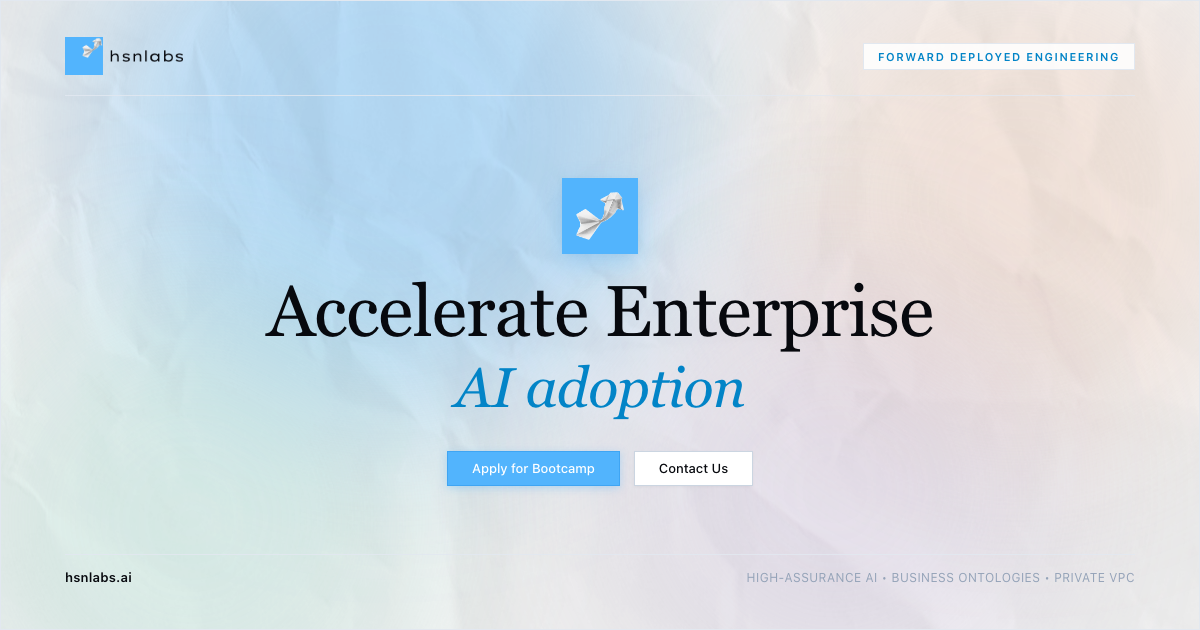
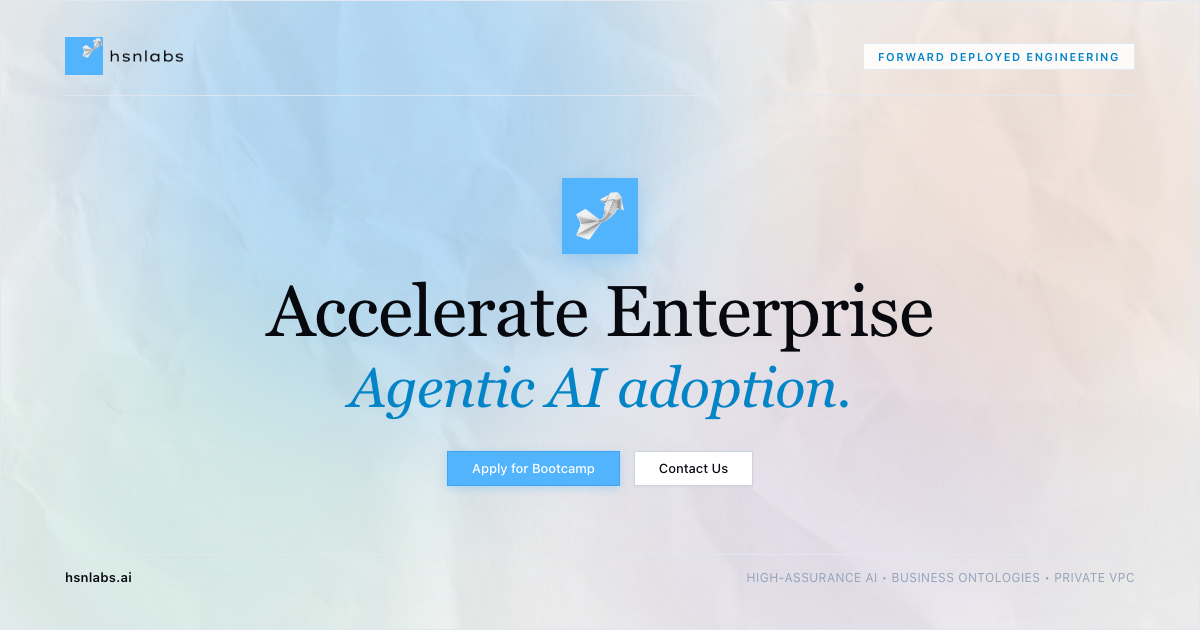
style: set hero subtitle to Agentic AI adoption.

Changed region(s): [[0.2775, 0.573, 0.7092, 0.6635]]

diff --git a/pt/index.html b/pt/index.html
@@ -1511,7 +1511,7 @@
       <!-- MAIN HEADLINE -->
       <h1 class="display-hero">
         <span class="hero-title-lead">Acelere a Adoção</span>
-        <span class="hero-title-sub" style="color: var(--cyan-text);">de IA enterprise</span>
+        <span class="hero-title-sub" style="color: var(--cyan-text);">de IA agêntica enterprise.</span>
       </h1>
 
       <div class="hero-ctas">

diff --git a/index.html b/index.html
@@ -1511,7 +1511,7 @@
       <!-- MAIN HEADLINE -->
       <h1 class="display-hero">
         <span class="hero-title-lead">Accelerate Enterprise</span>
-        <span class="hero-title-sub" style="color: var(--cyan-text);">AI adoption</span>
+        <span class="hero-title-sub" style="color: var(--cyan-text);">Agentic AI adoption.</span>
       </h1>
 
       <div class="hero-ctas">

diff --git a/scripts/build_pt_site.py b/scripts/build_pt_site.py
@@ -214,8 +214,8 @@ def build_pt_home():
         '<span class="hero-title-lead">Acelere a Adoção</span>'
     )
     html = html.replace(
-        '<span class="hero-title-sub" style="color: var(--cyan-text);">AI adoption</span>',
-        '<span class="hero-title-sub" style="color: var(--cyan-text);">de IA enterprise</span>'
+        '<span class="hero-title-sub" style="color: var(--cyan-text);">Agentic AI adoption.</span>',
+        '<span class="hero-title-sub" style="color: var(--cyan-text);">de IA agêntica enterprise.</span>'
     )
     html = html.replace(
         'Bridge the gap between AI strategy and live operations without disrupting legacy systems.',

diff --git a/scripts/update_og.py b/scripts/update_og.py
@@ -23,7 +23,7 @@ def extract_hero_data():
     
     # Extract title sub
     m_sub = re.search(r'<span class="hero-title-sub"[^>]*>(.*?)</span>', content, re.DOTALL)
-    title_sub = m_sub.group(1).strip() if m_sub else "AI adoption"
+    title_sub = m_sub.group(1).strip() if m_sub else "Agentic AI adoption."
     
     # Extract hero sub paragraph
     m_p = re.search(r'<p class="hero-sub">(.*?)</p>', content, re.DOTALL)
